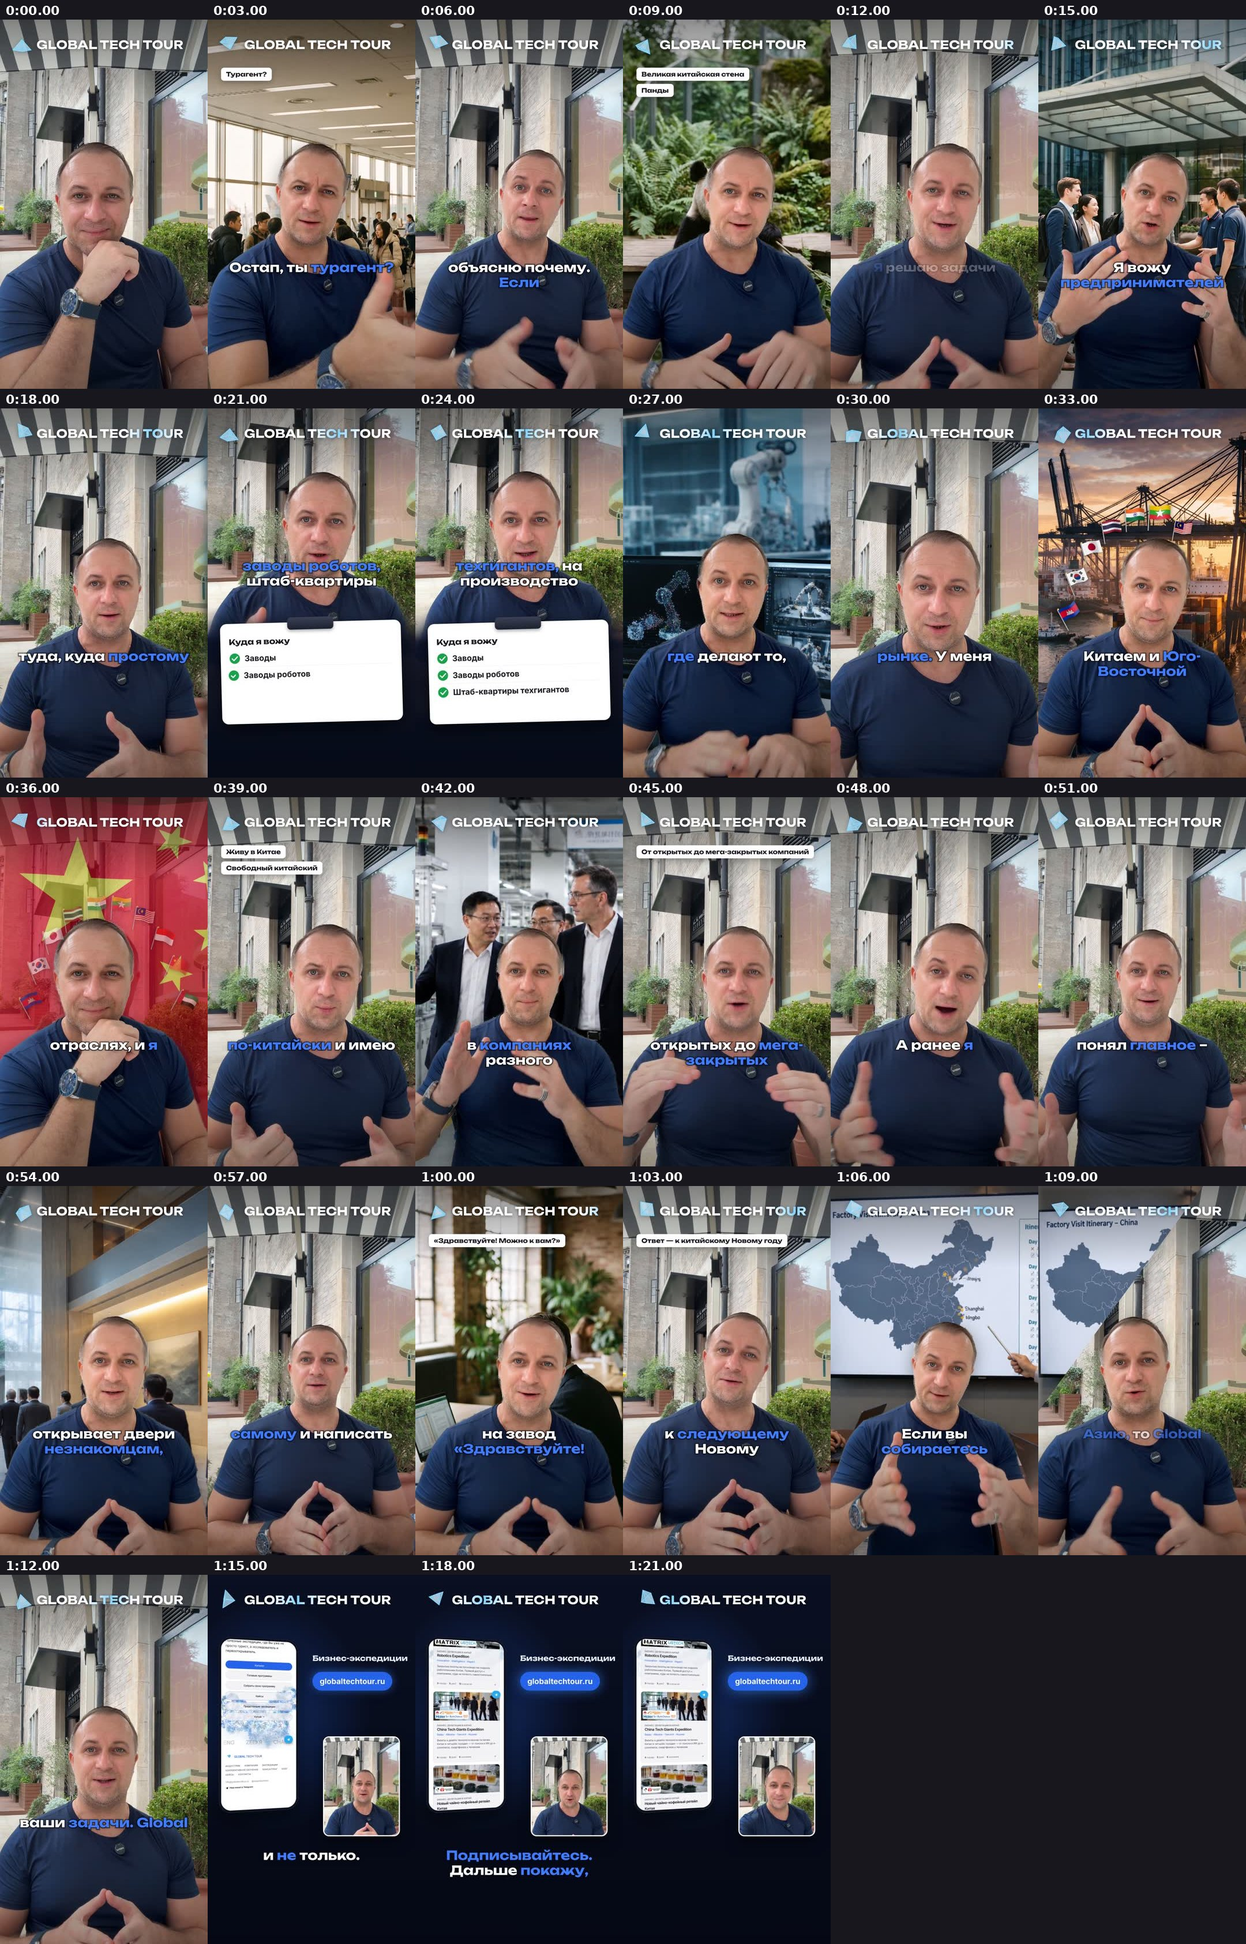
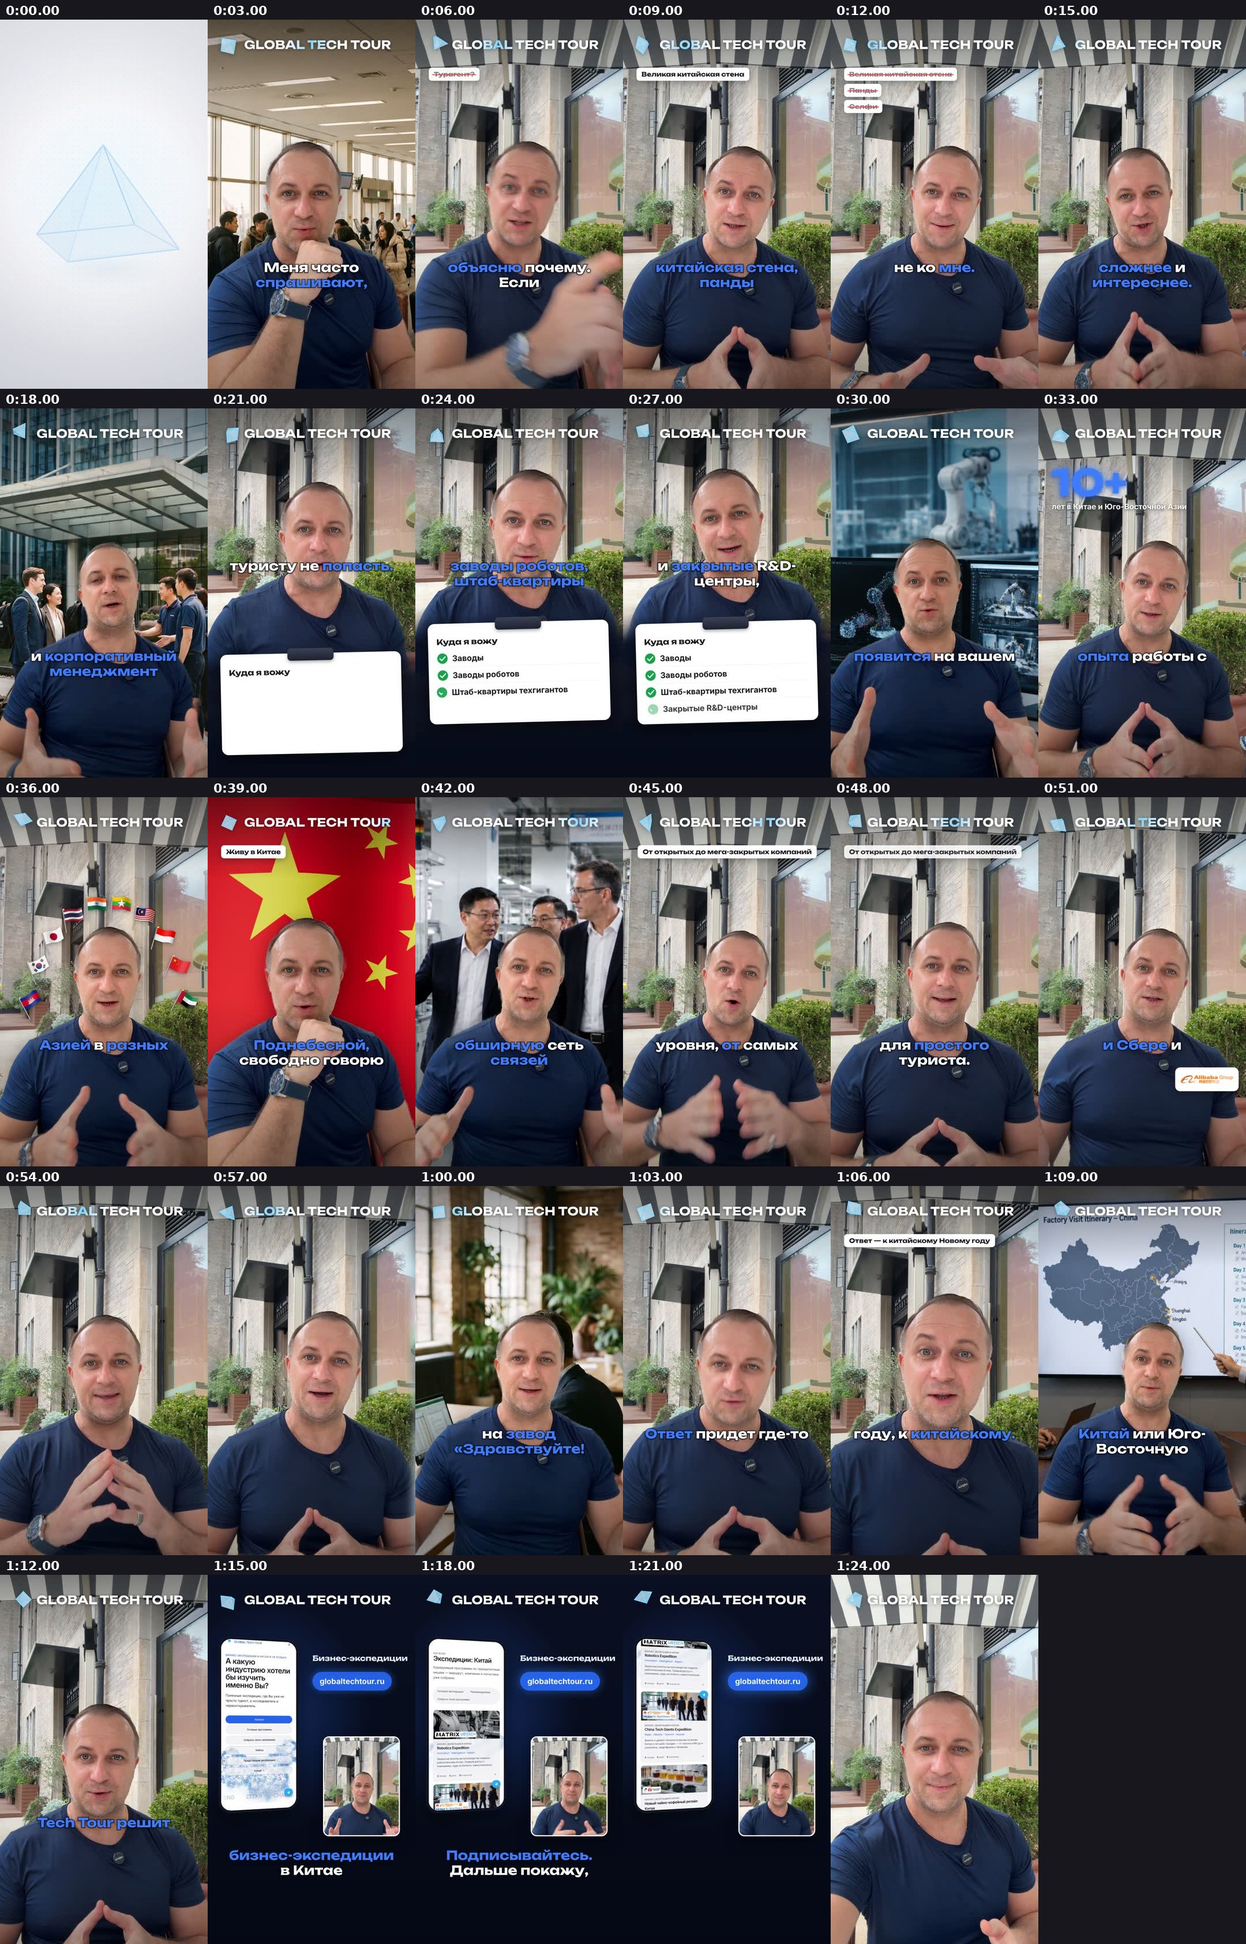
GTT: фирменная заставка shards в начале и в конце каждого ролика; «Интро» перерисовано
TalkReelPro сам ставит интро (1,8 с) и аутро (1,5 с) GttIntro поверх ролика (bumper),
auto.py сдвигает разрезы Stories, scripts/rebumper.py перерисовывает готовые ролики.

Claude-Session: https://claude.ai/code/session_01GWbvgKxue3PjjbbHEP4BVJ

diff --git a/reels-studio/src/compositions/TalkReelPro.tsx b/reels-studio/src/compositions/TalkReelPro.tsx
@@ -21,6 +21,7 @@ import {FlagArc, WavingFlag3D} from "../components/Flags";
 import {BRANDS, BrandCtx, useBrand} from "../brand";
 import {AuraBadge} from "../components/AuraBadge";
 import {AuraMascot, type GestureKind, type MascotPlan, type MascotStay} from "../components/AuraMascot";
+import {GttIntro} from "./GttIntro";
 
 // «Говорящая голова» в стиле референса пользователя (07.10.2026):
 // видео на весь экран, сверху плашка ▲ GLOBAL TECH TOUR, крупные белые субтитры по центру
@@ -104,6 +105,19 @@ export const talkReelProSchema = z.object({
   format: z.enum(["reels", "stories"]).default("reels"),
   // бренд: gtt — GlobalTechTour, aura — Aura Robotics (свой стиль, круглый логотип и 3D-маскот, src/brand.ts)
   brand: z.enum(["gtt", "aura"]).default("gtt"),
+  // фирменная заставка GTT в начале и конце (решение пользователя 12.10.2026: интро shards, аутро shards); у Aura её нет;
+  // false — без заставки; {intro, outro, introVariant, outroVariant} — выборочно
+  bumper: z
+    .union([
+      z.literal(false),
+      z.object({
+        intro: z.boolean().optional(),
+        outro: z.boolean().optional(),
+        introVariant: z.enum(["shards", "blocks", "light"]).optional(),
+        outroVariant: z.enum(["shards", "blocks", "light"]).optional(),
+      }),
+    ])
+    .optional(),
   // Линия глаз из scripts/grid.py (_work/имя.cut.layout.json): точка между глазами — центр всех зумов,
   // поэтому при наездах глаза остаются на своей линии и не «прыгают»
   focus: z.object({x: z.number(), y: z.number()}).default({x: 540, y: 614}),
@@ -1365,7 +1379,47 @@ const AuraBadgeSlot: React.FC<TalkReelProProps> = (p) => {
   );
 };
 
+// ---------- фирменная заставка GTT в начале и конце (GttIntro) ----------
+// Интро 1,8 с (54 кадра): последние 10 кадров — треугольное окно раскрывается на начало ролика, поэтому ролик стартует
+// на 44-м кадре. Аутро 1,5 с (45 кадров): первые 10 кадров окно закрывается на конце ролика, потом 35 кадров логотипа.
+const BUMPER = {intro: 54, outro: 45, overlap: 10};
+export const bumperOf = (p: Pick<TalkReelProProps, "brand" | "bumper">) => {
+  if ((p.brand ?? "gtt") === "aura" || p.bumper === false) return null;
+  const b = p.bumper || {};
+  return {intro: b.intro ?? true, outro: b.outro ?? true, introVariant: b.introVariant ?? "shards", outroVariant: b.outroVariant ?? "shards"};
+};
+// сколько кадров заставка добавляет в начале (lead) и в конце (tail) — для длины композиции и точек разреза Stories
+export const bumperFrames = (p: Pick<TalkReelProProps, "brand" | "bumper">) => {
+  const b = bumperOf(p);
+  return {lead: b?.intro ? BUMPER.intro - BUMPER.overlap : 0, tail: b?.outro ? BUMPER.outro - BUMPER.overlap : 0};
+};
+
 export const TalkReelPro: React.FC<TalkReelProProps> = (p) => {
+  const {durationInFrames} = useVideoConfig();
+  const b = bumperOf(p);
+  if (!b) return <TalkReelProBody {...p} />;
+  const {lead, tail} = bumperFrames(p);
+  const main = durationInFrames - lead - tail;
+  return (
+    <AbsoluteFill style={{backgroundColor: "#EEEEF2"}}>
+      <Sequence from={lead} durationInFrames={main} name="Ролик">
+        <TalkReelProBody {...p} />
+      </Sequence>
+      {b.intro ? (
+        <Sequence from={0} durationInFrames={BUMPER.intro} name="Заставка: интро">
+          <GttIntro variant={b.introVariant} mode="intro" transparent />
+        </Sequence>
+      ) : null}
+      {b.outro ? (
+        <Sequence from={lead + main - BUMPER.overlap} durationInFrames={BUMPER.outro} name="Заставка: аутро">
+          <GttIntro variant={b.outroVariant} mode="outro" transparent />
+        </Sequence>
+      ) : null}
+    </AbsoluteFill>
+  );
+};
+
+const TalkReelProBody: React.FC<TalkReelProProps> = (p) => {
   const {fps, durationInFrames} = useVideoConfig();
   const f = (s: number) => Math.round(s * fps);
   const siteFrom = f(p.site.at);

diff --git a/reels-studio/src/compositions/GttIntro.tsx b/reels-studio/src/compositions/GttIntro.tsx
@@ -9,6 +9,8 @@
 //  - "outro" (1,5 с): обратное — треугольное окно с роликом сжимается в точку, логотип собирается и держится,
 //    под ним плашка globaltechtour.ru.
 // variant: "shards" — стеклянные осколки, "blocks" — синие 3D-кубики со щелчком, "light" — световая линия и налив.
+// В ролики GTT заставка встроена (решение пользователя 12.10.2026: в начало — интро shards, в конец — аутро shards):
+// TalkReelPro рисует её поверх ролика с transparent: true (bumperOf / bumperFrames в TalkReelPro.tsx).
 // underlay / underlayFrom — только для просмотра примеров: какой ролик виден в «окне» (по умолчанию готовый ролик
 // «ИИ»; "" — без ролика). При вставке в ролики окно открывается на сам ролик.
 import React from "react";
@@ -29,6 +31,7 @@ export const gttIntroSchema = z.object({
   underlay: z.string().optional(),
   underlayFrom: z.number().optional(),
   sound: z.boolean().optional(),
+  transparent: z.boolean().optional(), // поверх ролика (TalkReelPro): без своего фона — в окне виден сам ролик под заставкой
 });
 export type GttIntroProps = z.infer<typeof gttIntroSchema>;
 
@@ -97,7 +100,7 @@ const PortalRim: React.FC<{h: number; k: number}> = ({h, k}) => {
   );
 };
 
-export const GttIntro: React.FC<GttIntroProps> = ({variant, mode, underlay, underlayFrom, sound = true}) => {
+export const GttIntro: React.FC<GttIntroProps> = ({variant, mode, underlay, underlayFrom, sound = true, transparent = false}) => {
   const frame = useCurrentFrame();
   const {fps, durationInFrames: N} = useVideoConfig();
   const L = useWordmarkLayout();
@@ -143,11 +146,11 @@ export const GttIntro: React.FC<GttIntroProps> = ({variant, mode, underlay, unde
   const textScale = zoom * (1 + 0.3 * easeInCubic(exitP));
   const pill = intro ? 0 : smooth(prog(t, 0.92, 1.18));
   const id = `gtt-${variant}-${mode}`;
-  const src = underlay === undefined ? DEMO_REEL : underlay;
+  const src = transparent ? "" : underlay === undefined ? DEMO_REEL : underlay;
   const from = underlayFrom ?? (intro ? 0 : DEMO_REEL_END - 10 / fps);
 
   return (
-    <AbsoluteFill style={{background: src ? "#000" : "#EEEEF2"}}>
+    <AbsoluteFill style={{background: transparent ? "transparent" : src ? "#000" : "#EEEEF2"}}>
       {/* ролик под заставкой (виден в треугольном окне) */}
       {src ? (
         intro ? (

diff --git a/reels-studio/src/Root.tsx b/reels-studio/src/Root.tsx
@@ -11,7 +11,7 @@ import {AuraPreview} from "./components/AuraPreview";
 import {FlagTest} from "./components/FlagTest";
 import {Carousel, carouselSchema, type CarouselProps} from "./compositions/Carousel";
 import carouselSample from "../props/carousels/пример-gtt.json";
-import {TalkReelPro, talkReelProSchema, type TalkReelProProps} from "./compositions/TalkReelPro";
+import {TalkReelPro, bumperFrames, talkReelProSchema, type TalkReelProProps} from "./compositions/TalkReelPro";
 import talkProSample from "../props/2026-10-07-byt-tehnika-v3.json";
 import {StoryAnnounce, storyAnnounceSchema, type StoryAnnounceProps} from "./compositions/StoryAnnounce";
 import announceSample from "../props/announces/пример-gtt.json";
@@ -118,9 +118,11 @@ export const RemotionRoot: React.FC = () => {
         durationInFrames={VIDEO.fps * 20}
         schema={talkReelProSchema}
         defaultProps={talkProSample as unknown as TalkReelProProps}
-        calculateMetadata={({props}: {props: TalkReelProProps}) => ({
-          durationInFrames: Math.round((props.speechSeconds + props.ctaSeconds) * VIDEO.fps),
-        })}
+        calculateMetadata={({props}: {props: TalkReelProProps}) => {
+          // + фирменная заставка GTT в начале и конце (у Aura и при bumper: false — нет)
+          const b = bumperFrames(props);
+          return {durationInFrames: Math.round((props.speechSeconds + props.ctaSeconds) * VIDEO.fps) + b.lead + b.tail};
+        }}
       />
       <Composition
         id="GTTLogo"

diff --git a/reels-studio/scripts/rebumper.py b/reels-studio/scripts/rebumper.py
@@ -1,0 +1,94 @@
+"""Перерендер готовых роликов GTT с фирменной заставкой (решение пользователя 12.10.2026: в начало — интро shards,
+в конец — аутро shards; TalkReelPro ставит её сам, см. bumperOf / bumperFrames).
+
+  python3 scripts/rebumper.py 2026-10-07-intro 2026-10-08-roboty …   # props/<имя>.json
+
+Для каждого ролика: Reels → finished-videos/<имя>.mp4 (+ раскадровка в раскадровки/, лёгкая копия в для-телефона/),
+Stories → finished-videos/<имя>-stories-1.mp4, -2.mp4 … (+ лёгкие копии). Точка разреза Stories — прежняя (длина старой
+первой части) + 1,47 с интро; если какая-то часть вышла бы длиннее 59,5 с, разрез переносится на ближайший конец фразы
+(слова из props). Прогресс — строки «▶ …», в конце по каждому ролику «REBUMPER_DONE <имя>».
+"""
+import json
+import pathlib
+import subprocess
+import sys
+
+sys.path.insert(0, str(pathlib.Path(__file__).resolve().parent))
+from auto import CONCURRENCY, FIN, STUDIO, light_copy, run  # noqa: E402
+
+LEAD, TAIL, LIMIT = 44 / 30, 35 / 30, 59.5
+R = ["./node_modules/.bin/remotion", "render", "src/index.ts", "TalkReelPro"]
+
+
+def dur(p: pathlib.Path) -> float:
+    return float(subprocess.check_output(["ffprobe", "-v", "error", "-show_entries", "format=duration", "-of", "csv=p=0", str(p)]).decode())
+
+
+def cuts_for(name: str, props: dict) -> list[float]:
+    """Точки разреза Stories (секунды готового ролика с заставкой)."""
+    old = sorted(FIN.glob(f"{name}-stories-[0-9]*.mp4"), key=lambda p: int(p.stem.rsplit("-", 1)[1]))
+    total = props["speechSeconds"] + props["ctaSeconds"] + LEAD + TAIL
+    if len(old) < 2:
+        return [] if total <= LIMIT else [round(total / 2, 2)]
+    acc, want = 0.0, []
+    for p in old[:-1]:
+        acc += dur(p)
+        want.append(acc + LEAD)
+    # концы фраз: слово со знаком препинания (паузы после склейки почти нулевые); разрез — посередине до следующего слова
+    w = props["words"]
+    ends = [(w[i]["end"] + w[i + 1]["start"]) / 2 + LEAD for i in range(len(w) - 1) if w[i]["text"].rstrip()[-1:] in ".,!?…:;—"]
+    out, prev = [], 0.0
+    for k, c in enumerate(want):
+        nxt_limit = total if k == len(want) - 1 else (want[k + 1] if k + 1 < len(want) else total)
+        ok = lambda x: x - prev <= LIMIT and (nxt_limit - x <= LIMIT if k == len(want) - 1 else True) and x > prev + 5
+        if ok(c):
+            out.append(round(c, 2))
+        else:
+            cand = [e for e in ends if ok(e)]
+            if not cand:
+                print(f"! {name}: не нашёл конец фразы для разреза около {c:.1f} с — режу на {c:.1f}", flush=True)
+                out.append(round(c, 2))
+            else:
+                best = min(cand, key=lambda e: abs(e - c))
+                print(f"▶ {name}: разрез {c:.2f} → {best:.2f} с (конец фразы, части ≤ {LIMIT} с)", flush=True)
+                out.append(round(best, 2))
+        prev = out[-1]
+    return out
+
+
+def main():
+    for name in sys.argv[1:]:
+        props_path = STUDIO / "props" / f"{name}.json"
+        props = json.loads(props_path.read_text())
+        cuts = cuts_for(name, props)
+        print(f"▶ {name}: Reels", flush=True)
+        reels = FIN / f"{name}.mp4"
+        run(R + [reels, f"--props=./props/{name}.json", f"--concurrency={CONCURRENCY}", "--log=error"])
+        run(["python3", "scripts/frames.py", reels, "--every", "3"])
+        (FIN / "раскадровки").mkdir(exist_ok=True)
+        (FIN / "раскадровки" / f"{name}.jpg").write_bytes((FIN / "frames" / f"{name}.jpg").read_bytes())
+        light_copy(reels, FIN / "для-телефона" / f"{name}.mp4")
+        print(f"REELS {name} {dur(reels):.1f} с", flush=True)
+
+        print(f"▶ {name}: Stories, разрез {cuts}", flush=True)
+        sp = dict(props, format="stories")
+        st_props = FIN / "frames" / f"_{name}-stories.props.json"
+        st_props.write_text(json.dumps(sp, ensure_ascii=False))
+        stories = FIN / f"{name}-stories.mp4"
+        run(R + [stories, f"--props={st_props}", f"--concurrency={CONCURRENCY}", "--log=error"])
+        st_props.unlink()
+        for old in FIN.glob(f"{name}-stories-[0-9]*.mp4"):
+            old.unlink()
+        if cuts:
+            run(["python3", "scripts/stories.py", stories, "--at", ",".join(map(str, cuts))])
+        else:
+            (FIN / f"{name}-stories-1.mp4").write_bytes(stories.read_bytes())
+        stories.unlink()
+        for part in sorted(FIN.glob(f"{name}-stories-[0-9]*.mp4")):
+            light_copy(part, FIN / "для-телефона" / part.name)
+            print(f"  {part.name}: {dur(part):.1f} с", flush=True)
+        print(f"REBUMPER_DONE {name}", flush=True)
+
+
+if __name__ == "__main__":
+    main()

diff --git a/reels-studio/scripts/auto.py b/reels-studio/scripts/auto.py
@@ -164,7 +164,14 @@ def main():
         stories = FIN / f"{a.name}-stories.mp4"
         step("Рендер Stories")
         run(R + [stories, f"--props={st_props}", f"--concurrency={CONCURRENCY}", "--log=error"])
-        split = a.split or ",".join(map(str, rep["storiesAt"]))
+        # фирменная заставка GTT (интро 1,47 с в начале, аутро 1,17 с в конце) сдвигает точки разреза; у Aura её нет
+        lead, tail = (0.0, 0.0) if sp.get("brand") == "aura" or sp.get("bumper") is False else (44 / 30, 35 / 30)
+        cuts = [round(c + lead, 2) for c in rep["storiesAt"]]
+        total = sp["speechSeconds"] + sp["ctaSeconds"] + lead + tail
+        for x0, x1 in zip([0.0] + cuts, cuts + [total]):
+            if x1 - x0 > 59.5 and not a.split:
+                print(f"AUTO_WARN часть Stories {x0:.1f}–{x1:.1f} с длиннее 59,5 с (заставка) — поставь --split", flush=True)
+        split = a.split or ",".join(map(str, cuts))
         for old in FIN.glob(f"{a.name}-stories-*.mp4"):
             old.unlink()
         if split:

diff --git a/reels-studio/README.md b/reels-studio/README.md
@@ -240,6 +240,13 @@ npx remotion render src/index.ts TalkReelPro ../finished-videos/имя-stories.m
 npm run stories -- ../finished-videos/имя-stories.mp4 --at 58.3   # части по ≤60 с для Stories
 ```
 
+Ролики GTT сами начинаются и заканчиваются фирменной заставкой (стеклянная пирамида, надпись GLOBAL TECH TOUR из осколков):
++1,8 с в начале, +1,5 с в конце. Без заставки — `"bumper": false` в props. Готовые ролики перерисовать с заставкой:
+
+```bash
+python3 scripts/rebumper.py 2026-10-07-intro 2026-10-08-roboty   # Reels + Stories + лёгкие копии + раскадровка
+```
+
 ## Раскадровка
 
 ```bash
